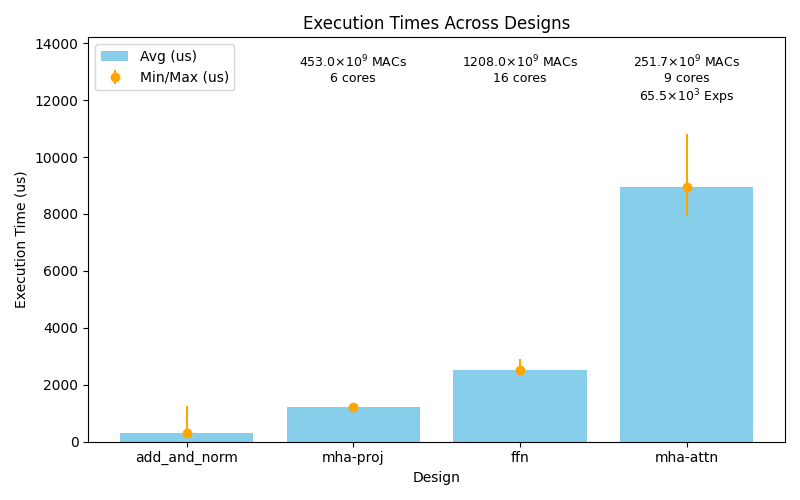
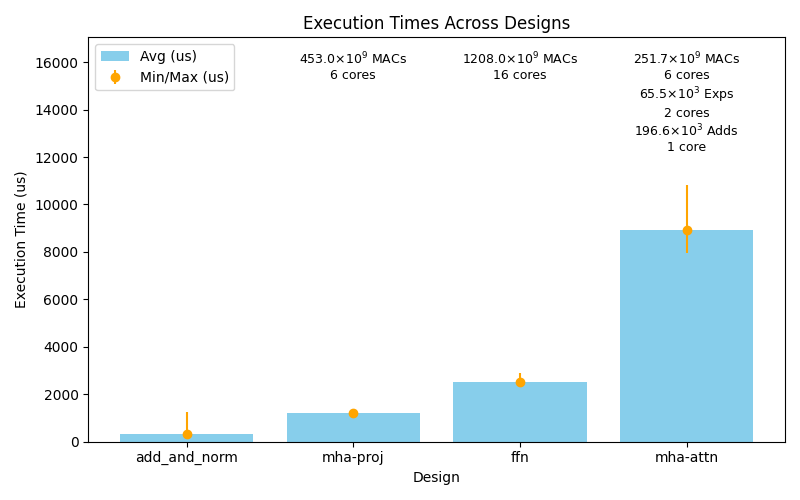
Updated execution times plot

diff --git a/programming_examples/ml/transformer/scripts/run_analysis.py b/programming_examples/ml/transformer/scripts/run_analysis.py
@@ -629,9 +629,9 @@ def analyse_execution_times(csv_file, output_dir):
     # Annotate each bar with "MxKxN" and the product
     # TODO: The number of AIEs is hardcoded, but it should be determined from the design files.
     y_max = ax.get_ylim()[1]
-    # Increase the y-axis upper limit by 25% to add whitespace at the top
-    ax.set_ylim(top=y_max * 1.25)
-    y_text = y_max * 1.2  # Place annotation at the original top (now below the new limit)
+    # Increase the y-axis upper limit by 50% to add whitespace at the top
+    ax.set_ylim(top=y_max * 1.5)
+    y_text = y_max * 1.45  # Place annotation at the original top (now below the new limit)
     for idx, (m, k, n, bar_height, design) in enumerate(zip(M, K, N, avg_times, designs)):
         text = ""
         if design == 'ffn':
@@ -639,11 +639,13 @@ def analyse_execution_times(csv_file, output_dir):
         elif design == 'mha':
             total_macs = 4 * m * k * n  + m * k * m + m * m * n
             total_exps = m * m
-            text = f"{total_macs/1e6:.1f}×10$^9$ MACs\n{total_exps/1e3:.1f}×10$^3$ Exps\n15 cores"
+            total_adds = m * n
+            text = f"{total_macs/1e6:.1f}×10$^9$ MACs\n12 cores\n{total_exps/1e3:.1f}×10$^3$ Exps\n2 cores\n{total_adds/1e3:.1f}×10$^3$ Adds\n1 core"
         elif design == 'mha-attn':
             total_macs = m * k * n + m * k * m + m * m * n
             total_exps = m * m
-            text = f"{total_macs/1e6:.1f}×10$^9$ MACs\n9 cores\n{total_exps/1e3:.1f}×10$^3$ Exps"
+            total_adds = m * n
+            text = f"{total_macs/1e6:.1f}×10$^9$ MACs\n6 cores\n{total_exps/1e3:.1f}×10$^3$ Exps\n2 cores\n{total_adds/1e3:.1f}×10$^3$ Adds\n1 core"
         elif design == 'mha-proj':
             total_macs = 3 * m * k * n
             text = f"{total_macs/1e6:.1f}×10$^9$ MACs\n6 cores"
